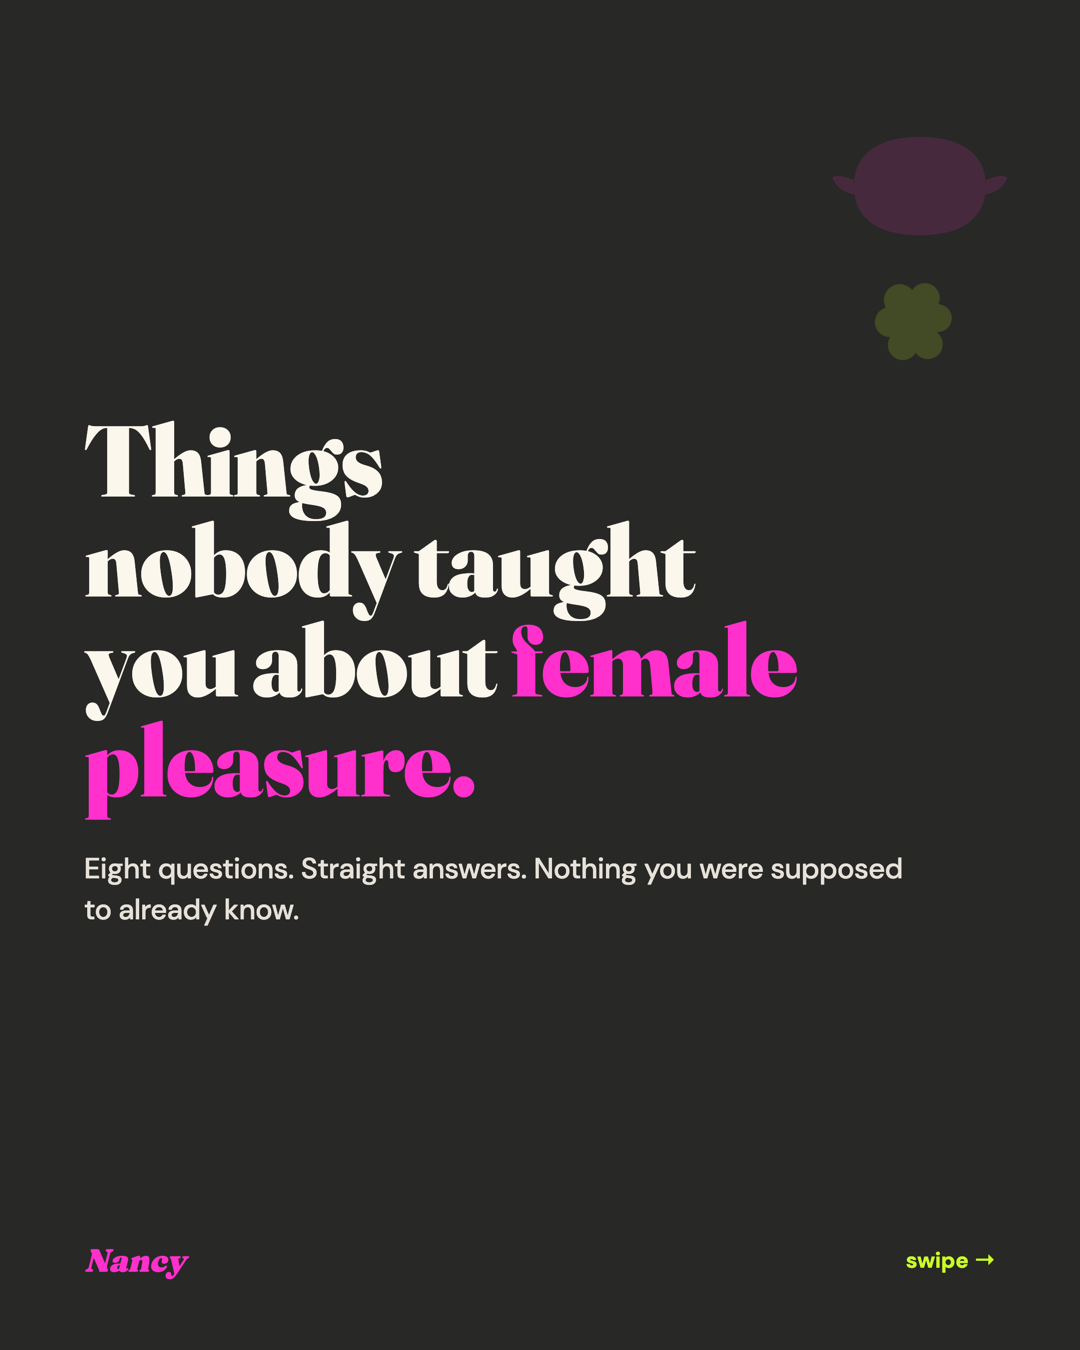
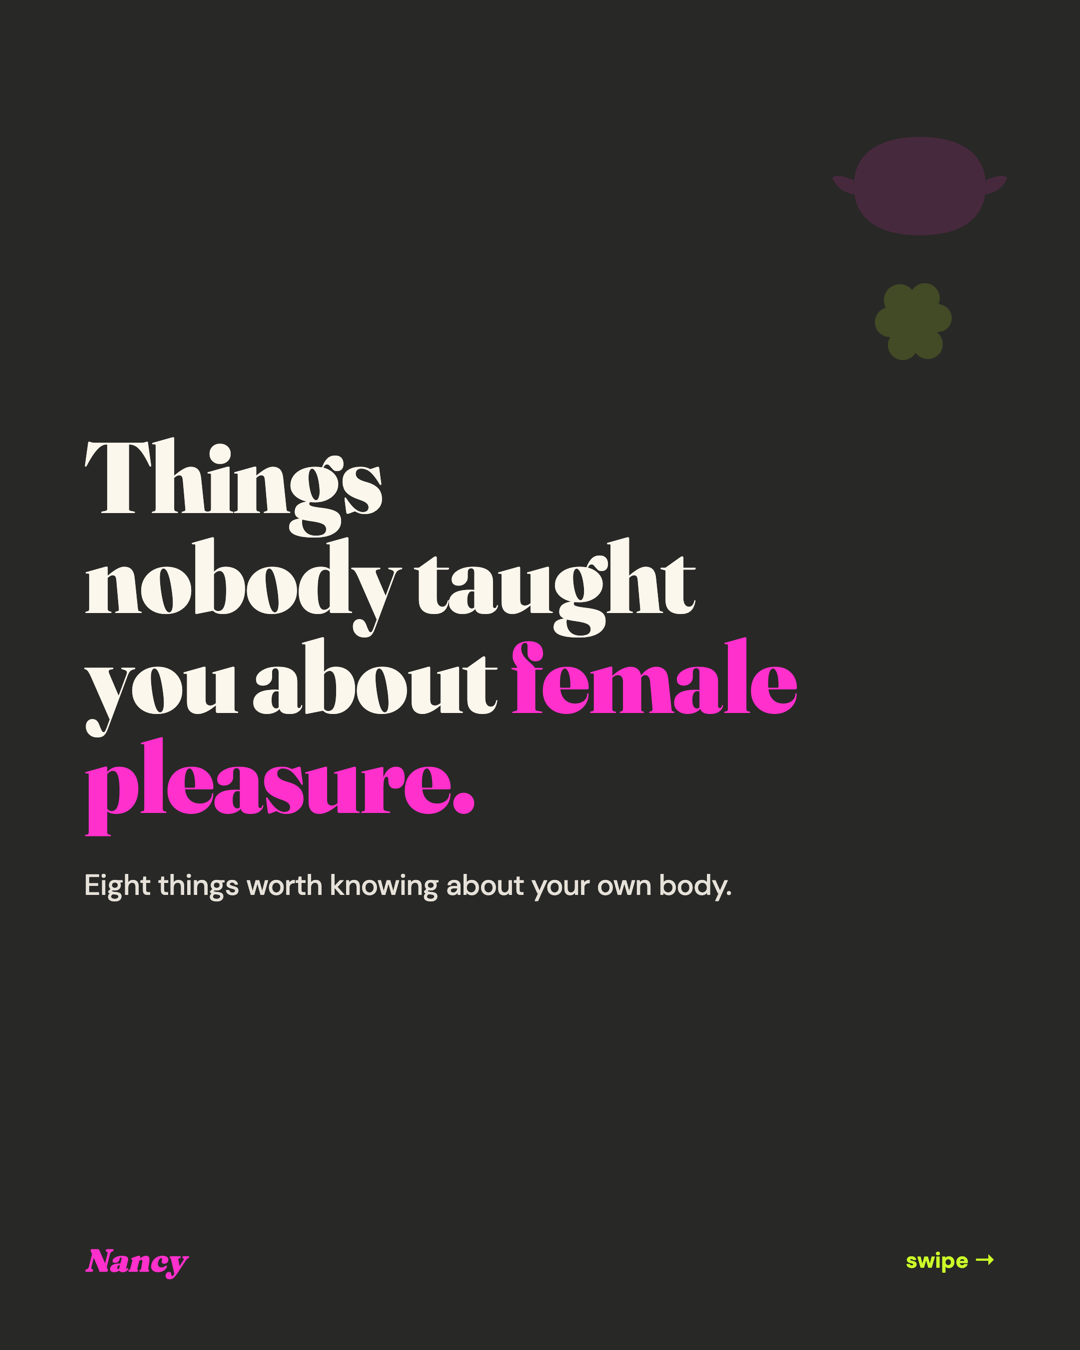
Post 1: new cover subheader

Changed region(s): [[0.0611, 0.3111, 0.8556, 0.6844]]

diff --git a/_source/post1-cover.html b/_source/post1-cover.html
@@ -1,0 +1,35 @@
+<!doctype html>
+<html><head><meta charset="utf-8">
+<link rel="stylesheet" href="fonts-embedded.css">
+<style>
+  :root{--pink:#FF30CC;--lime:#CCFD28;--cream:#FCF7ED;--ink:#282826;}
+  *{margin:0;padding:0;box-sizing:border-box}
+  html,body{width:1080px;height:1350px}
+  body{background:var(--ink);font-family:'DM Sans',sans-serif;color:var(--ink);overflow:hidden;position:relative}
+  .frame{position:absolute;inset:0;padding:86px 84px 70px;display:flex;flex-direction:column}
+  .foot{display:flex;align-items:center;justify-content:space-between;margin-top:auto}
+  .wordmark{font-family:'Fraunces',serif;font-weight:900;font-style:italic;font-size:32px;color:var(--pink)}
+  .swipe{font-weight:700;font-size:22px;color:var(--lime)}
+  .big{font-family:'Fraunces',serif;font-weight:900;letter-spacing:-.012em}
+</style></head><body>
+<div class="frame">
+  <div style="height:6px"></div>
+  <div style="flex:1;display:flex;flex-direction:column;justify-content:center">
+    <div class="big" style="font-size:100px;line-height:1.0;color:var(--cream)">Things<br>nobody taught<br>you about <span style="color:var(--pink)">female<br>pleasure.</span></div>
+    <div style="margin-top:38px;font-size:29px;font-weight:500;color:var(--cream);max-width:820px;line-height:1.4;opacity:.9">
+      Eight things worth knowing about your own body.</div>
+  </div>
+  <svg width="180" height="132" viewBox="0 0 150 110" style="position:absolute;right:70px;top:120px;opacity:.14" xmlns="http://www.w3.org/2000/svg">
+    <path d="M20 55C20 27 42 14 75 14C108 14 130 27 130 55C130 83 108 96 75 96C42 96 20 83 20 55Z" fill="#FF30CC"/>
+    <path d="M20 50 Q6 44 2 48 Q7 60 21 62 Q19 55 20 50Z" fill="#FF30CC"/>
+    <path d="M130 50 Q144 44 148 48 Q143 60 129 62 Q131 55 130 50Z" fill="#FF30CC"/>
+  </svg>
+  <svg width="90" height="90" viewBox="0 0 90 90" style="position:absolute;right:120px;top:280px;opacity:.16" xmlns="http://www.w3.org/2000/svg">
+    <g fill="#CCFD28"><circle cx="30" cy="20" r="16"/><circle cx="55" cy="18" r="15"/><circle cx="20" cy="42" r="15"/><circle cx="45" cy="44" r="17"/><circle cx="68" cy="38" r="14"/><circle cx="33" cy="65" r="15"/><circle cx="58" cy="64" r="15"/></g>
+  </svg>
+  <div class="foot">
+    <span class="wordmark">Nancy</span>
+    <span class="swipe">swipe &rarr;</span>
+  </div>
+</div>
+</body></html>

diff --git a/_source/post1-cover.py b/_source/post1-cover.py
@@ -1,0 +1,43 @@
+#!/usr/bin/env python3
+"""Post 1 — cover slide rebuild. 1080x1350, Hello Nancy brand kit."""
+import os
+BASE = os.path.dirname(os.path.abspath(__file__))
+
+HTML = '''<!doctype html>
+<html><head><meta charset="utf-8">
+<link rel="stylesheet" href="fonts-embedded.css">
+<style>
+  :root{--pink:#FF30CC;--lime:#CCFD28;--cream:#FCF7ED;--ink:#282826;}
+  *{margin:0;padding:0;box-sizing:border-box}
+  html,body{width:1080px;height:1350px}
+  body{background:var(--ink);font-family:'DM Sans',sans-serif;color:var(--ink);overflow:hidden;position:relative}
+  .frame{position:absolute;inset:0;padding:86px 84px 70px;display:flex;flex-direction:column}
+  .foot{display:flex;align-items:center;justify-content:space-between;margin-top:auto}
+  .wordmark{font-family:'Fraunces',serif;font-weight:900;font-style:italic;font-size:32px;color:var(--pink)}
+  .swipe{font-weight:700;font-size:22px;color:var(--lime)}
+  .big{font-family:'Fraunces',serif;font-weight:900;letter-spacing:-.012em}
+</style></head><body>
+<div class="frame">
+  <div style="height:6px"></div>
+  <div style="flex:1;display:flex;flex-direction:column;justify-content:center">
+    <div class="big" style="font-size:100px;line-height:1.0;color:var(--cream)">Things<br>nobody taught<br>you about <span style="color:var(--pink)">female<br>pleasure.</span></div>
+    <div style="margin-top:38px;font-size:29px;font-weight:500;color:var(--cream);max-width:820px;line-height:1.4;opacity:.9">
+      Eight things worth knowing about your own body.</div>
+  </div>
+  <svg width="180" height="132" viewBox="0 0 150 110" style="position:absolute;right:70px;top:120px;opacity:.14" xmlns="http://www.w3.org/2000/svg">
+    <path d="M20 55C20 27 42 14 75 14C108 14 130 27 130 55C130 83 108 96 75 96C42 96 20 83 20 55Z" fill="#FF30CC"/>
+    <path d="M20 50 Q6 44 2 48 Q7 60 21 62 Q19 55 20 50Z" fill="#FF30CC"/>
+    <path d="M130 50 Q144 44 148 48 Q143 60 129 62 Q131 55 130 50Z" fill="#FF30CC"/>
+  </svg>
+  <svg width="90" height="90" viewBox="0 0 90 90" style="position:absolute;right:120px;top:280px;opacity:.16" xmlns="http://www.w3.org/2000/svg">
+    <g fill="#CCFD28"><circle cx="30" cy="20" r="16"/><circle cx="55" cy="18" r="15"/><circle cx="20" cy="42" r="15"/><circle cx="45" cy="44" r="17"/><circle cx="68" cy="38" r="14"/><circle cx="33" cy="65" r="15"/><circle cx="58" cy="64" r="15"/></g>
+  </svg>
+  <div class="foot">
+    <span class="wordmark">Nancy</span>
+    <span class="swipe">swipe &rarr;</span>
+  </div>
+</div>
+</body></html>'''
+
+open(os.path.join(BASE, "post1-cover.html"), "w").write(HTML)
+print("wrote post1-cover.html")
